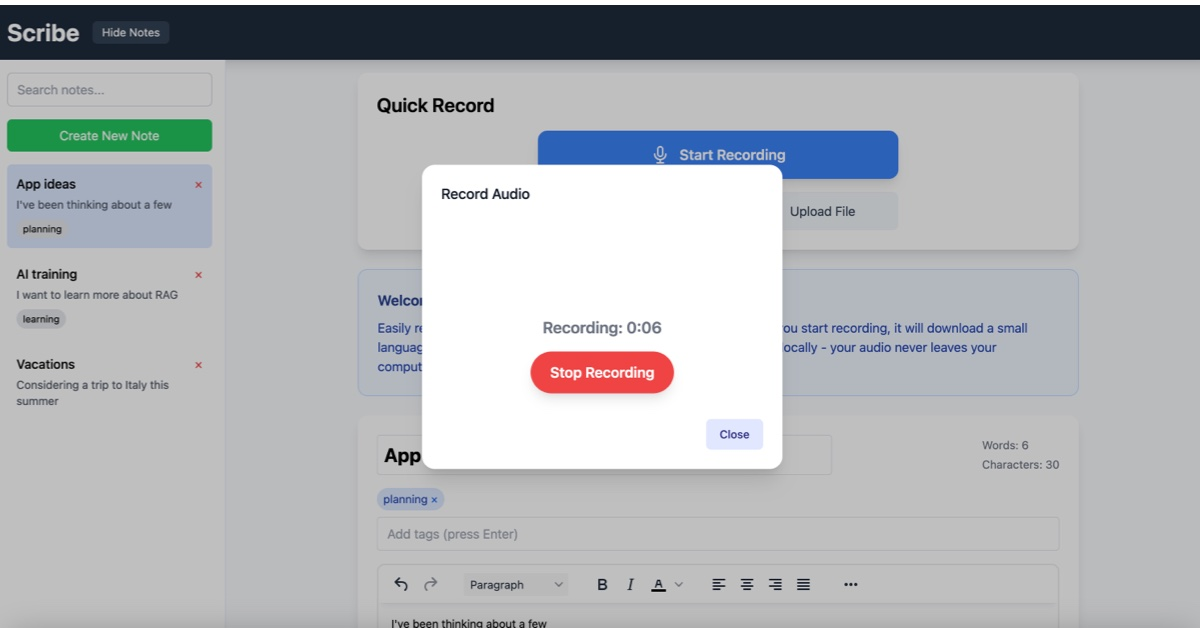
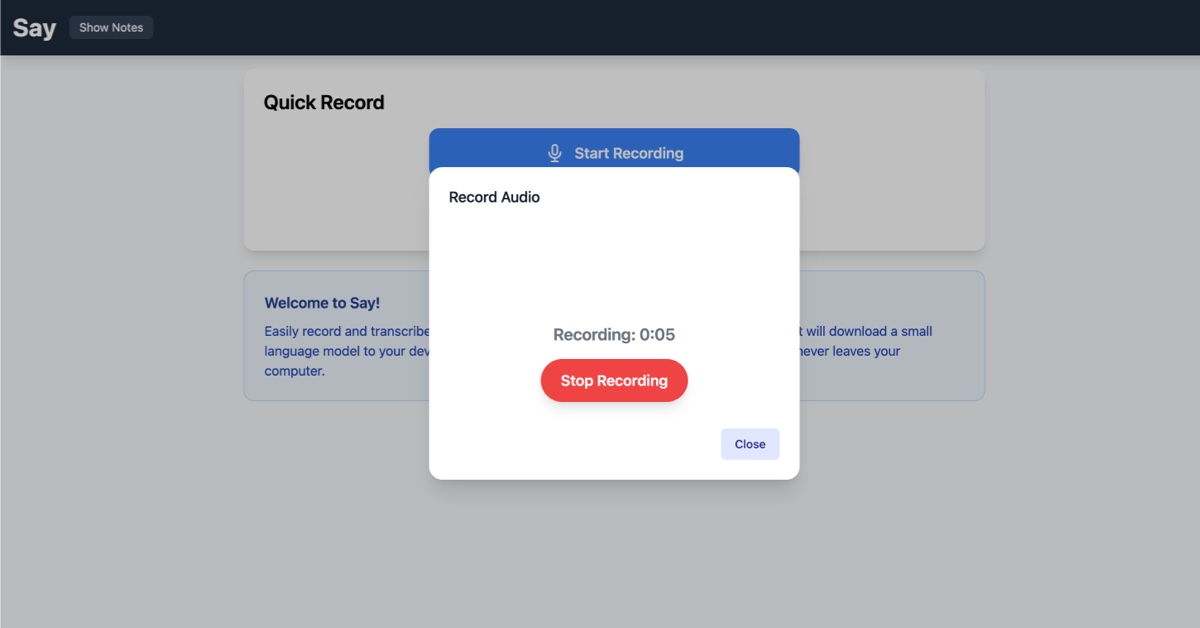
Update app name to Say, update screenshots

diff --git a/index.html b/index.html
@@ -2,7 +2,7 @@
 <html lang="en">
   <head>
     <meta charset="UTF-8" />
-    <title>Scribe</title>
+    <title>Say</title>
 
     <link rel="icon" href="/favicon.ico" sizes="32x32">
     <link rel="icon" href="/icon.svg" type="image/svg+xml">
@@ -10,24 +10,24 @@
     <meta name="viewport" content="width=device-width, initial-scale=1.0" />
     <meta name="description" content="Easily record and transcribe your audio files into text using AI. Get accurate text transcriptions in seconds. Easily save or export your transcripts. Record directly from your microphone. Edit and copy the entire transcript." />
     <meta name="keywords" content="audio, transcribe, text, AI" />
-    <meta name="author" content="Scribe" />
+    <meta name="author" content="Say" />
     <meta name="theme-color" content="#ffffff" />   
     
     <!-- Twitter -->
     <meta name="twitter:card" content="summary" />
-    <meta name="twitter:title" content="Scribe" />
+    <meta name="twitter:title" content="Say" />
     <meta name="twitter:description" content="Easily record and transcribe your audio files into text using AI. Get accurate text transcriptions in seconds. Easily save or export your transcripts. Record directly from your microphone. Edit and copy the entire transcript." />
-    <meta name="twitter:image" content="https://scribe.addy.ie/meta@1x.jpg" />
+    <meta name="twitter:image" content="https://say.addy.ie/meta@1x.jpg" />
     <meta name="twitter:creator" content="@addyosmani" />
-    <meta name="twitter:site" content="https://scribe.addy.ie" />
+    <meta name="twitter:site" content="https://say.addy.ie" />
 
     <!-- Open Graph -->
-    <meta property="og:title" content="Scribe" />
+    <meta property="og:title" content="Say" />
     <meta property="og:type" content="website" />
-    <meta property="og:url" content="https://scribe.addy.ie" />
-    <meta property="og:image" content="https://scribe.addy.ie/meta@1x.jpg" />
+    <meta property="og:url" content="https://say.addy.ie" />
+    <meta property="og:image" content="https://say.addy.ie/meta@1x.jpg" />
     <meta property="og:description" content="Easily record and transcribe your audio files into text using AI. Get accurate text transcriptions in seconds. Easily save or export your transcripts. Record directly from your microphone. Edit and copy the entire transcript." />
-    <meta property="og:site_name" content="Scribe" />
+    <meta property="og:site_name" content="Say" />
     <meta property="og:locale" content="en_US" />
     <meta property="og:locale:alternate" content="en_GB" />
 

diff --git a/src/App.tsx b/src/App.tsx
@@ -220,7 +220,7 @@ function App() {
             <header className='bg-slate-800 text-white p-4 shadow-lg'>
                 <div className="flex justify-between items-center">
                     <div className="flex items-center gap-4">
-                        <h1 className='text-3xl font-bold'>Scribe</h1>
+                        <h1 className='text-3xl font-bold'>Say</h1>
                         <button
                             onClick={() => setShowNoteList(!showNoteList)}
                             className="px-3 py-1 text-sm bg-slate-700 hover:bg-slate-600 rounded-md transition-colors"
@@ -258,13 +258,19 @@ function App() {
 
                         {showInfo && (
                             <div className="bg-blue-50 border border-blue-200 rounded-xl p-4 md:p-6">
-                                <h3 className="text-base md:text-lg font-semibold text-blue-900 mb-2">Welcome to Scribe!</h3>
-                                <p className="text-sm md:text-base text-blue-800">
-                                    Easily record and transcribe your audio files into text using AI. When you start recording, 
-                                    it will download a small language model to your device. All processing happens privately and locally 
-                                    - your audio never leaves your computer.
-                                </p>
-                            </div>
+    <h3 className="text-base md:text-lg font-semibold text-blue-900 mb-2">Welcome to Say!</h3>
+    <p className="text-sm md:text-base text-blue-800">
+        Easily record and transcribe your audio files into text using AI. When you start recording, 
+        it will download a small language model to your device. All processing happens privately and locally.
+    </p>
+    <ul className="list-disc list-inside pl-4 text-blue-800 md:p-6">
+        <li>🎙 High-quality on-device transcription with Whisper (tiny or base)</li>
+        <li>📂 Transcribe recordings, local and hosted audio files</li>
+        <li>📝 Rich-text editing, note management, and versioning</li>
+        <li>✍ AI summaries of notes powered by T5</li>
+        <li>🔄 Export and import all your notes any time</li>
+    </ul>
+</div>
                         )}
 
                         {selectedNoteId && (

diff --git a/REQUIREMENTS.md b/REQUIREMENTS.md
@@ -1,4 +1,4 @@
-# Scribe Application Requirements
+# Say Application Requirements
 
 ## Overview
 This is a sophisticated note-taking application that combines traditional text editing with advanced features like voice dictation and AI-powered text summarization. The application provides a seamless experience for creating, managing, and organizing notes with support for rich text editing, audio transcription, and smart content summarization.

diff --git a/README.md b/README.md
@@ -1,4 +1,4 @@
-# Scribe
+# Say
 
 An AI notes app.
 
